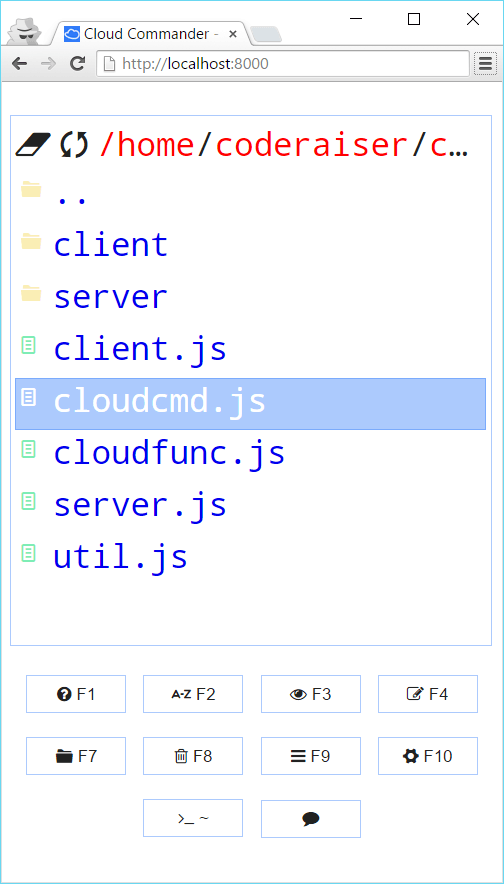
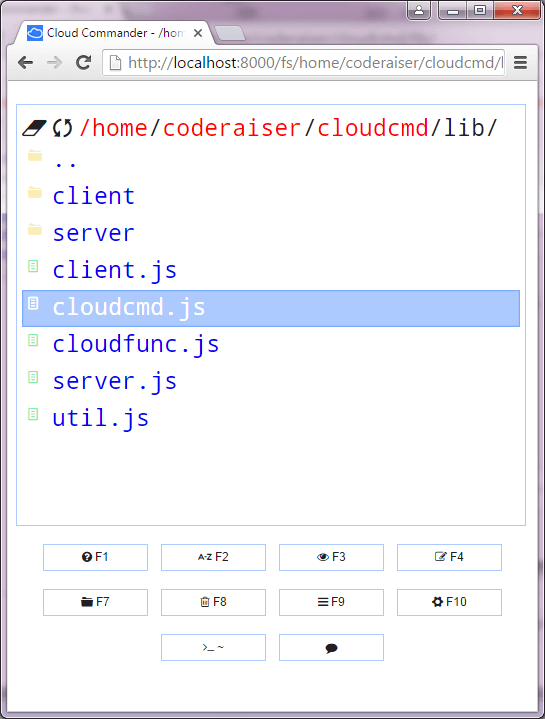
chore(package) v5.1.0

diff --git a/index.md b/index.md
@@ -14,7 +14,7 @@ lang:
 hideDownloadButtons: true
 ---
 
-Cloud Commander v5.0.15
+Cloud Commander v5.1.0
 ===============
 ### [Main][MainURL] [Blog][BlogURL] Live(![JitSu][JitSu_LIVE_IMG] [JitSu][JitSuURL], ![Heroku][Heroku_LIVE_IMG] [Heroku][HerokuURL])
 [NPM_INFO_IMG]:             https://nodei.co/npm/cloudcmd.png?downloads=true&&stars&&downloadRank "npm install cloudcmd"
@@ -296,17 +296,19 @@ var http        = require('http'),
     app         = express(),
     
     PORT        = 1337,
-    
+    PREFIX      = '/cloudcmd',
     server,
     socket;
     
 server = http.createServer(app);
-socket = io.listen(server);
+socket = io.listen(server, {
+    path: PREFIX + '/socket.io'
+});
 
 app.use(cloudcmd({
     socket: socket,     /* used by Config, Edit (optional) and Console (required)   */
     config: {           /* config data (optional)                                   */
-        prefix: '/cloudcmd', /* base URL or function which returns base URL (optional)   */
+        prefix: PREFIX, /* base URL or function which returns base URL (optional)   */
     }
 }));
 
@@ -427,6 +429,7 @@ Config would be read from home directory, hosts root file system would be mount 
 
 Version history
 ---------------
+- *2016.02.20*, **[v5.1.0](//github.com/cloudcmd/archive/raw/master/cloudcmd-v5.1.0.tar.gz)**
 - *2016.02.13*, **[v5.0.15](//github.com/cloudcmd/archive/raw/master/cloudcmd-v5.0.15.tar.gz)**
 - *2016.02.10*, **[v5.0.14](//github.com/cloudcmd/archive/raw/master/cloudcmd-v5.0.14.tar.gz)**
 - *2016.02.10*, **[v5.0.13](//github.com/cloudcmd/archive/raw/master/cloudcmd-v5.0.13.tar.gz)**
